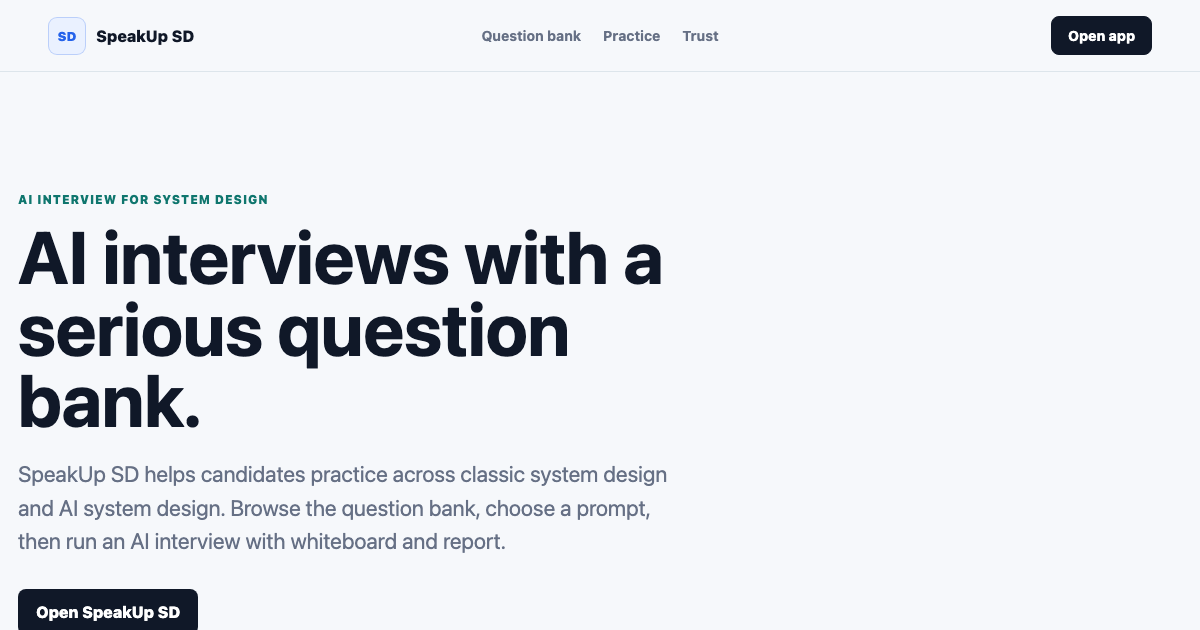
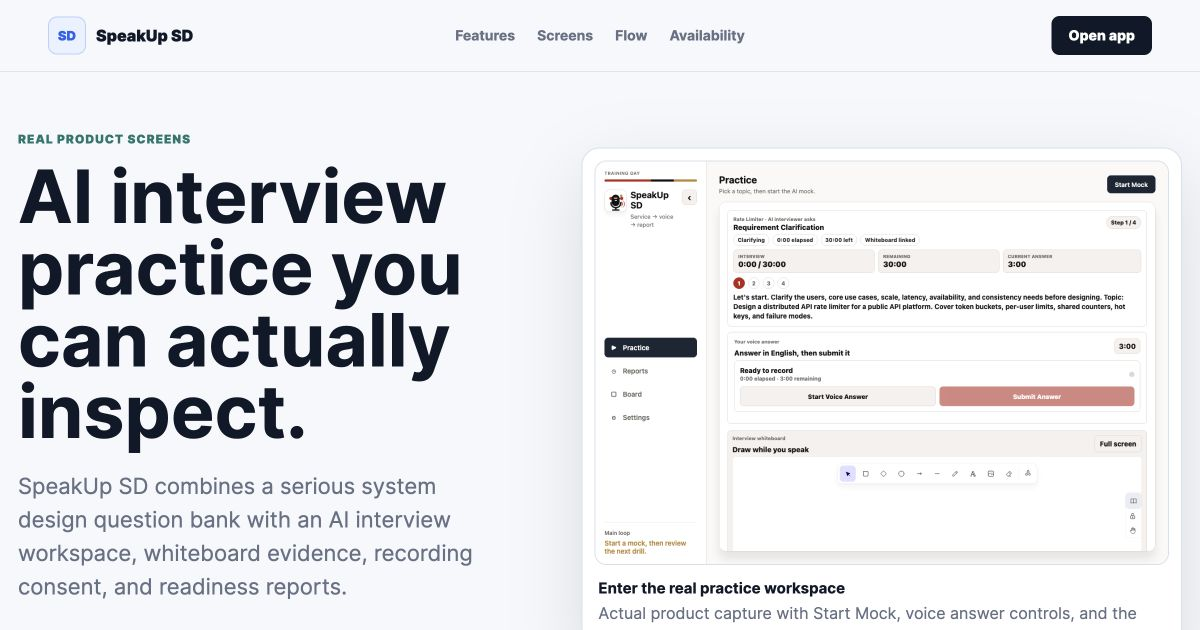
feat: refresh showcase product story

diff --git a/index.html b/index.html
@@ -6,13 +6,13 @@
     <title>SpeakUp SD | AI System Design Interview Practice</title>
     <meta
       name="description"
-      content="SpeakUp SD is an AI interview practice product with real question-bank, voice interview, whiteboard, consent, and report screens."
+      content="SpeakUp SD is an AI system design interview practice product available on the web, with iOS validation underway in TestFlight."
     />
     <meta property="og:title" content="SpeakUp SD" />
     <meta property="og:url" content="https://zoetw88.github.io/speakup-sd-showcase/" />
     <meta
       property="og:description"
-      content="Real product screens for AI system design interview practice: question bank, interview workspace, whiteboard, consent, and reports."
+      content="Practice system design aloud with a real question bank, AI interview workspace, whiteboard, and reports. Available on web; iOS internal beta underway."
     />
     <meta property="og:type" content="website" />
     <meta property="og:image" content="./assets/showcase-preview.png" />
@@ -27,9 +27,10 @@
         <span>SpeakUp SD</span>
       </a>
       <nav>
+        <a href="#features">Features</a>
         <a href="#screens">Screens</a>
         <a href="#flow">Flow</a>
-        <a href="#trust">Trust</a>
+        <a href="#availability">Availability</a>
       </nav>
       <a class="header-action" href="https://speakup-sd.vercel.app">Open app</a>
     </header>
@@ -50,29 +51,63 @@
         </div>
 
         <figure class="hero-media">
-          <img src="./assets/product-question-bank.png" alt="Clean SpeakUp SD topic selection screen for AI Agent System practice." />
+          <img src="./assets/product-practice.png" alt="SpeakUp SD real app entrance showing the practice workspace, voice answer controls, and whiteboard." />
           <figcaption>
-            <strong>Pick a real system design topic before the mock</strong>
-            <span>Stable product capture showing topic selection and interview scope.</span>
+            <strong>Enter the real practice workspace</strong>
+            <span>Actual product capture with Start Mock, voice answer controls, and the whiteboard surface.</span>
           </figcaption>
         </figure>
       </section>
 
-      <section class="signal-strip" aria-label="Product surfaces">
-        <div>
-          <span>01</span>
-          <strong>Browse</strong>
-          <p>Preview real system design prompts and search for AI-agent design topics.</p>
+      <section id="availability" class="availability-strip" aria-label="Product availability">
+        <div class="availability-status">
+          <span class="status-dot" aria-hidden="true"></span>
+          <div>
+            <p class="availability-label">Product availability</p>
+            <strong>Live on web. iOS internal beta in TestFlight.</strong>
+            <p>
+              The iPhone build is in private device validation before public App Store release.
+            </p>
+          </div>
         </div>
-        <div>
-          <span>02</span>
-          <strong>Interview</strong>
-          <p>Answer out loud while using the whiteboard as interview evidence.</p>
+        <a class="secondary-action" href="https://speakup-sd.vercel.app">Practice on web</a>
+      </section>
+
+      <section id="features" class="feature-overview" aria-labelledby="features-title">
+        <div class="feature-heading">
+          <p class="eyebrow">Why SpeakUp SD</p>
+          <h2 id="features-title">Practice the explanation, not just the diagram.</h2>
+          <p>
+            Browse before signing in, rehearse aloud in a real interview structure, and leave
+            knowing what to practice next.
+          </p>
         </div>
-        <div>
-          <span>03</span>
-          <strong>Review</strong>
-          <p>Use reports to see readiness, skill signals, and the next drill.</p>
+
+        <div class="signal-strip" aria-label="Product features">
+          <div>
+            <span>01 - START FREE</span>
+            <strong>Classic + AI question bank</strong>
+            <p>
+              Explore system design prompts, then use no-AI Open Practice with a timer, local
+              recording, and desktop whiteboard.
+            </p>
+          </div>
+          <div>
+            <span>02 - PRACTICE OUT LOUD</span>
+            <strong>A real four-phase interview</strong>
+            <p>
+              Work through requirements, high-level design, technical deep dive, and trade-offs
+              in Simulation or optional Guided Practice.
+            </p>
+          </div>
+          <div>
+            <span>03 - IMPROVE</span>
+            <strong>Evidence into the next drill</strong>
+            <p>
+              Keep voice and whiteboard evidence together, then review one combined report,
+              skill signals, and a concrete next drill.
+            </p>
+          </div>
         </div>
       </section>
 
@@ -87,8 +122,8 @@
         </div>
 
         <div class="screen-grid">
-          <figure class="screen-card wide">
-            <img src="./assets/product-question-bank.png" alt="SpeakUp SD real question bank with AI Agent System search result." />
+          <figure class="screen-card">
+            <img src="./assets/product-question-bank-list.png" alt="SpeakUp SD real question bank topic list with AI Agent System selected." />
             <figcaption>
               <strong>Question bank</strong>
               <span>Searchable classic system design and AI system design prompts before entering the mock.</span>

diff --git a/styles.css b/styles.css
@@ -221,11 +221,93 @@ h2 {
   line-height: 1.45;
 }
 
+.availability-strip {
+  display: flex;
+  align-items: center;
+  justify-content: space-between;
+  gap: 28px;
+  width: min(1180px, calc(100% - 36px));
+  margin: 0 auto 18px;
+  padding: 18px 20px;
+  border: 1px solid var(--line);
+  border-radius: 8px;
+  background: var(--surface);
+}
+
+.availability-status {
+  display: flex;
+  align-items: flex-start;
+  gap: 13px;
+}
+
+.status-dot {
+  flex: 0 0 auto;
+  width: 9px;
+  height: 9px;
+  margin-top: 6px;
+  border-radius: 50%;
+  background: var(--green);
+  box-shadow: 0 0 0 4px rgba(21, 128, 61, 0.12);
+}
+
+.availability-label {
+  margin-bottom: 4px;
+  color: var(--teal);
+  font-size: 11px;
+  font-weight: 900;
+  letter-spacing: 0.08em;
+  text-transform: uppercase;
+}
+
+.availability-status strong {
+  display: block;
+  font-size: 17px;
+}
+
+.availability-status p:last-child {
+  margin: 5px 0 0;
+  color: var(--muted);
+  font-size: 14px;
+  line-height: 1.45;
+}
+
+.availability-strip .secondary-action {
+  flex: 0 0 auto;
+}
+
+.feature-overview {
+  width: min(1180px, calc(100% - 36px));
+  margin: 0 auto;
+  padding: clamp(72px, 8vw, 104px) 0 0;
+}
+
+.feature-heading {
+  display: grid;
+  grid-template-columns: minmax(0, 1.15fr) minmax(280px, 0.85fr);
+  gap: 24px 64px;
+  align-items: end;
+  margin-bottom: 28px;
+}
+
+.feature-heading .eyebrow {
+  grid-column: 1 / -1;
+  margin-bottom: -8px;
+}
+
+.feature-heading h2 {
+  max-width: 760px;
+}
+
+.feature-heading > p:last-child {
+  margin-bottom: 4px;
+  color: var(--muted);
+  font-size: 17px;
+  line-height: 1.55;
+}
+
 .signal-strip {
   display: grid;
   grid-template-columns: repeat(3, 1fr);
-  width: min(1180px, calc(100% - 36px));
-  margin: 0 auto;
   border: 1px solid var(--line);
   border-radius: 16px;
   background: var(--surface);
@@ -385,6 +467,7 @@ footer span {
   .hero,
   .split,
   .trust,
+  .feature-heading,
   .screen-grid {
     grid-template-columns: 1fr;
   }
@@ -417,9 +500,25 @@ footer span {
   }
 
   .hero,
+  .availability-strip,
+  .feature-overview,
   .section,
   .signal-strip {
     width: min(100% - 28px, 1180px);
+  }
+
+  .feature-overview .signal-strip {
+    width: 100%;
+  }
+
+  .availability-strip {
+    align-items: stretch;
+    flex-direction: column;
+    gap: 16px;
+  }
+
+  .availability-strip .secondary-action {
+    width: 100%;
   }
 
   h1 {

diff --git a/README.md b/README.md
@@ -10,14 +10,18 @@ SpeakUp SD helps candidates turn interview preparation into a repeatable loop: c
 |---|---|
 | Canonical public showcase | https://zoetw88.github.io/speakup-sd-showcase/ |
 | Practice app | https://speakup-sd.vercel.app |
+| iOS | Internal TestFlight validation before public App Store release |
 
 ## What This Repo Demonstrates
 
 - **Real product screenshots** for the question bank, AI interview workspace, consent modal, whiteboard, and reports.
 - **Product positioning** for system design interview practice in the AI-agent era.
-- **Voice-first practice flow** for candidates who need to rehearse architecture explanations, not just read prompt lists.
-- **Whiteboard evidence** as part of the interview-practice artifact.
-- **Readiness-focused reports** that turn a spoken answer into visible feedback and next practice targets.
+- **Unlimited no-AI Open Practice** with a timer, local recording, and desktop whiteboard.
+- **Four-phase voice practice** across requirements, high-level design, technical deep dive, and trade-offs.
+- **Simulation and Guided Practice** paths, with optional between-phase coach reminders.
+- **Voice and whiteboard evidence** kept together for review.
+- **One combined report and next drill** that turn a completed interview into a focused follow-up.
+- **Honest availability status** for the live web product and private iOS beta.
 - **Trust boundary** between public showcase content and private application code.
 
 ## Showcase Structure
@@ -29,6 +33,7 @@ SpeakUp SD helps candidates turn interview preparation into a repeatable loop: c
 └── assets/
     ├── showcase-preview.png
     ├── product-question-bank.png
+    ├── product-question-bank-list.png
     ├── product-interview-active.png
     ├── product-recording-consent.png
     ├── product-practice.png
